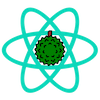
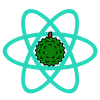
Dark theme (#36)
* Added dark modes color

* Added react-icons

* Added Fa to toggle between light mode & dark mode

* Remove react-icons lib

* Update dark mode color

* Update Field Component text color

* Change from NavLink to button with custom style

* update image

* Added aria-label

Changed region(s): [[0.0, 0.06, 0.99, 0.96]]

diff --git a/src/components/header.js b/src/components/header.js
@@ -1,6 +1,6 @@
 /** @jsx jsx */
 import { Link } from 'gatsby';
-import { jsx } from 'theme-ui';
+import { jsx, useColorMode } from 'theme-ui';
 import { useSiteMetadata } from '../hooks/use-site-metadata';
 import { Button } from './button';
 import { DesktopOnly } from './desktop-only';
@@ -8,9 +8,13 @@ import { NavLink } from './nav-link';
 import { Icon } from './icon';
 // eslint-disable-next-line
 import React from 'react';
+import { Sun, Moon } from 'react-feather';
 
 export function Header() {
   const { title } = useSiteMetadata();
+  const [colorMode, setColorMode] = useColorMode();
+
+  const isDark = () => colorMode === 'dark';
 
   return (
     <>
@@ -51,6 +55,23 @@ export function Header() {
       <Button as={Link} to="/submit-a-talk" sx={{ ml: 2 }}>
         Submit a Talk
       </Button>
+      <button
+        sx={{
+          cursor: 'pointer',
+          background: 'transparent',
+          margin: '0 10px',
+          color: 'text',
+          border: '0',
+          '&:focus': {
+            outline: 0,
+          }
+        }}
+        aria-label={isDark() ? `Activate light mode` : `Activate dark mode`}
+        onClick={e => {
+          setColorMode(colorMode === 'default' ? 'dark' : 'default')
+        }}>
+        {colorMode === 'default' ? <Moon /> : <Sun />}
+      </button>
     </>
   );
 }

diff --git a/src/gatsby-plugin-theme-ui/index.js b/src/gatsby-plugin-theme-ui/index.js
@@ -12,6 +12,16 @@ const colors = {
   secondary: '#11a',
   accent: '#61dafb',
   muted: '#9e9e9e',
+  modes: {
+    dark: {
+      text: 'hsl(210,50%,96% )',
+      background: '#000',
+      primary: '#0fd7ba',
+      secondary: '#40AF9F',
+      accent: '#CB7F61',
+      muted: 'hsla(230,20%,0%,20% )'
+    }
+  },
 };
 
 export default {

diff --git a/src/components/seo.js b/src/components/seo.js
@@ -25,7 +25,7 @@ export const Seo = ({ title, description, pathname, image, keywords }) => {
           twitter
         }
       }
-      siteImage: file(name: { eq: "durian-react-16x9" }) {
+      siteImage: file(name: { eq: "durian-react-social" }) {
         publicURL
       }
     }

diff --git a/src/components/field.js b/src/components/field.js
@@ -50,6 +50,7 @@ export function Field({
           width: '100%',
           fontFamily: 'inherit',
           fontSize: [2, 3, 3],
+          color: 'text',
           outline: 'none',
           bg: 'background',
           border: 0,
